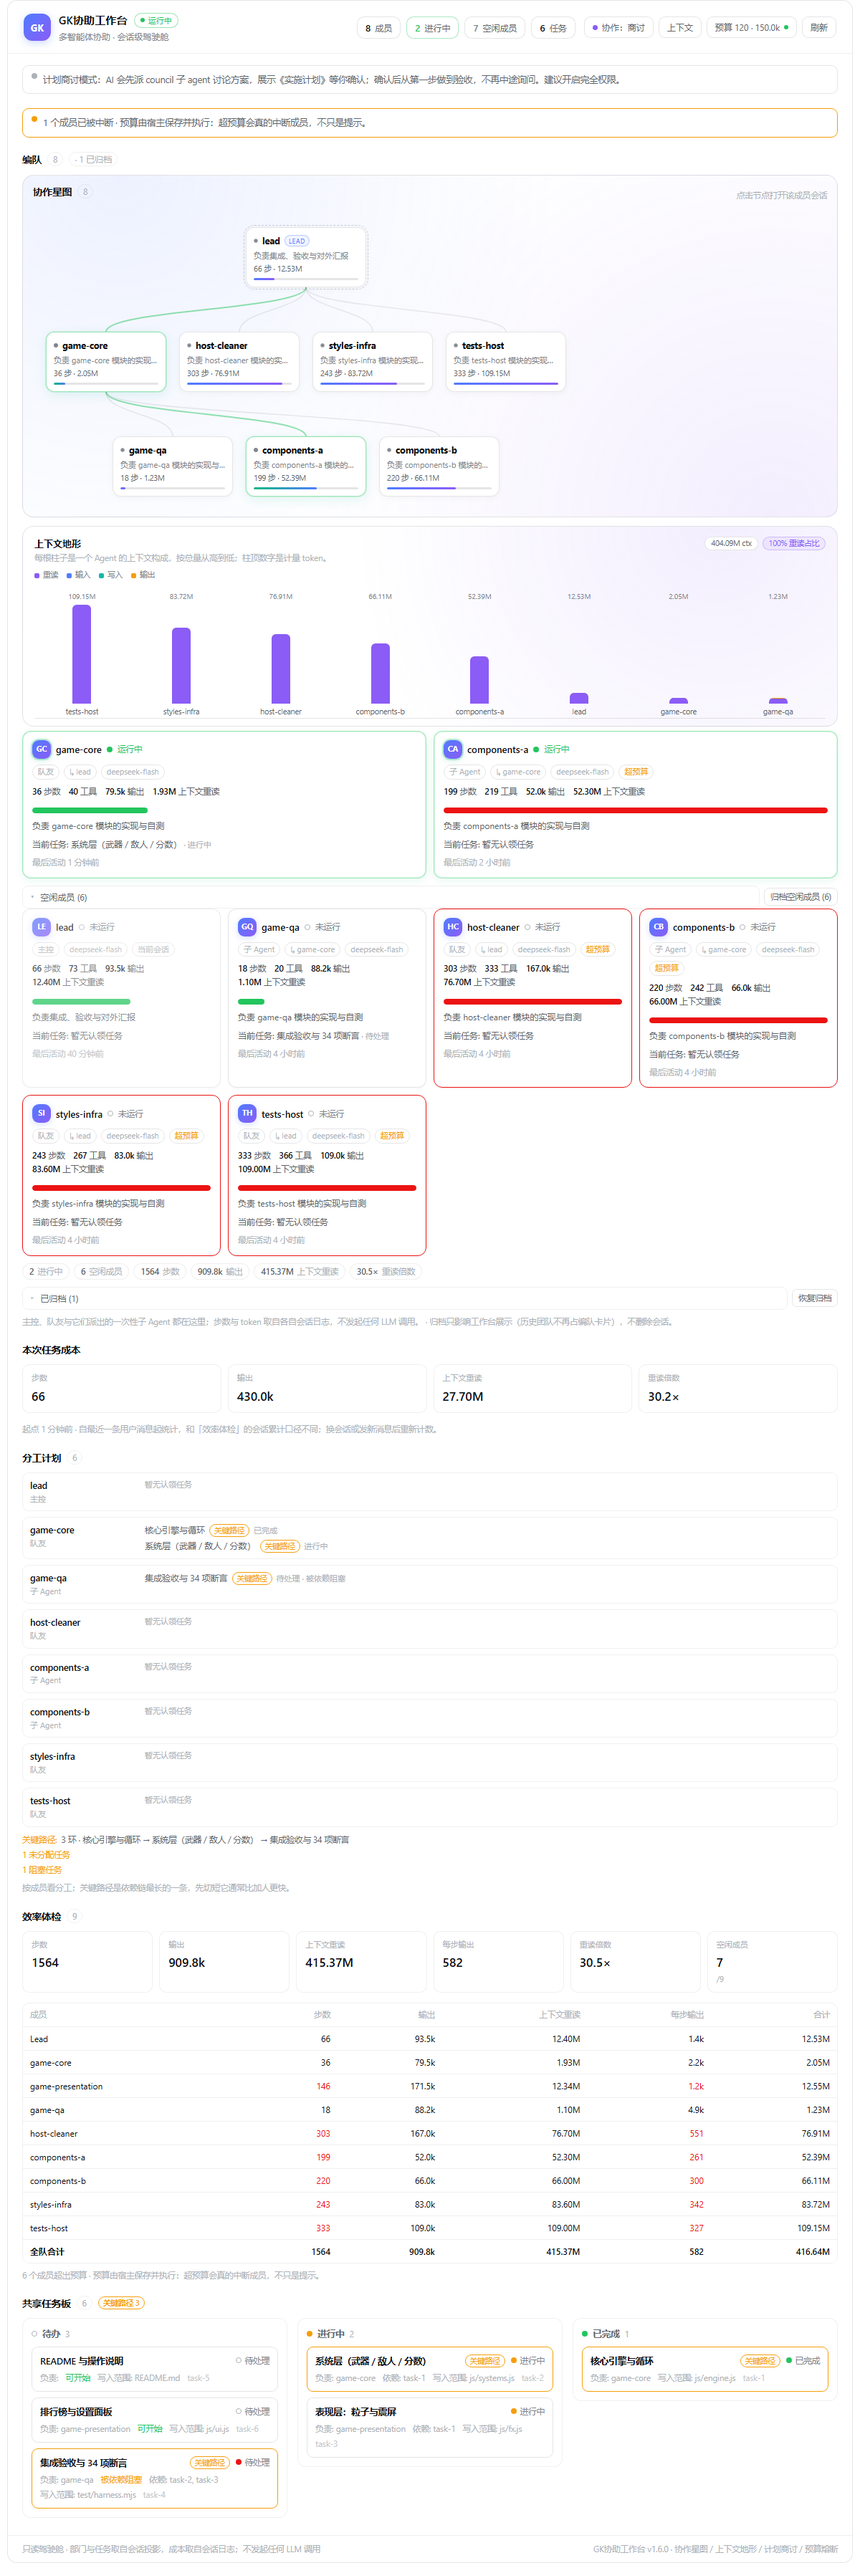
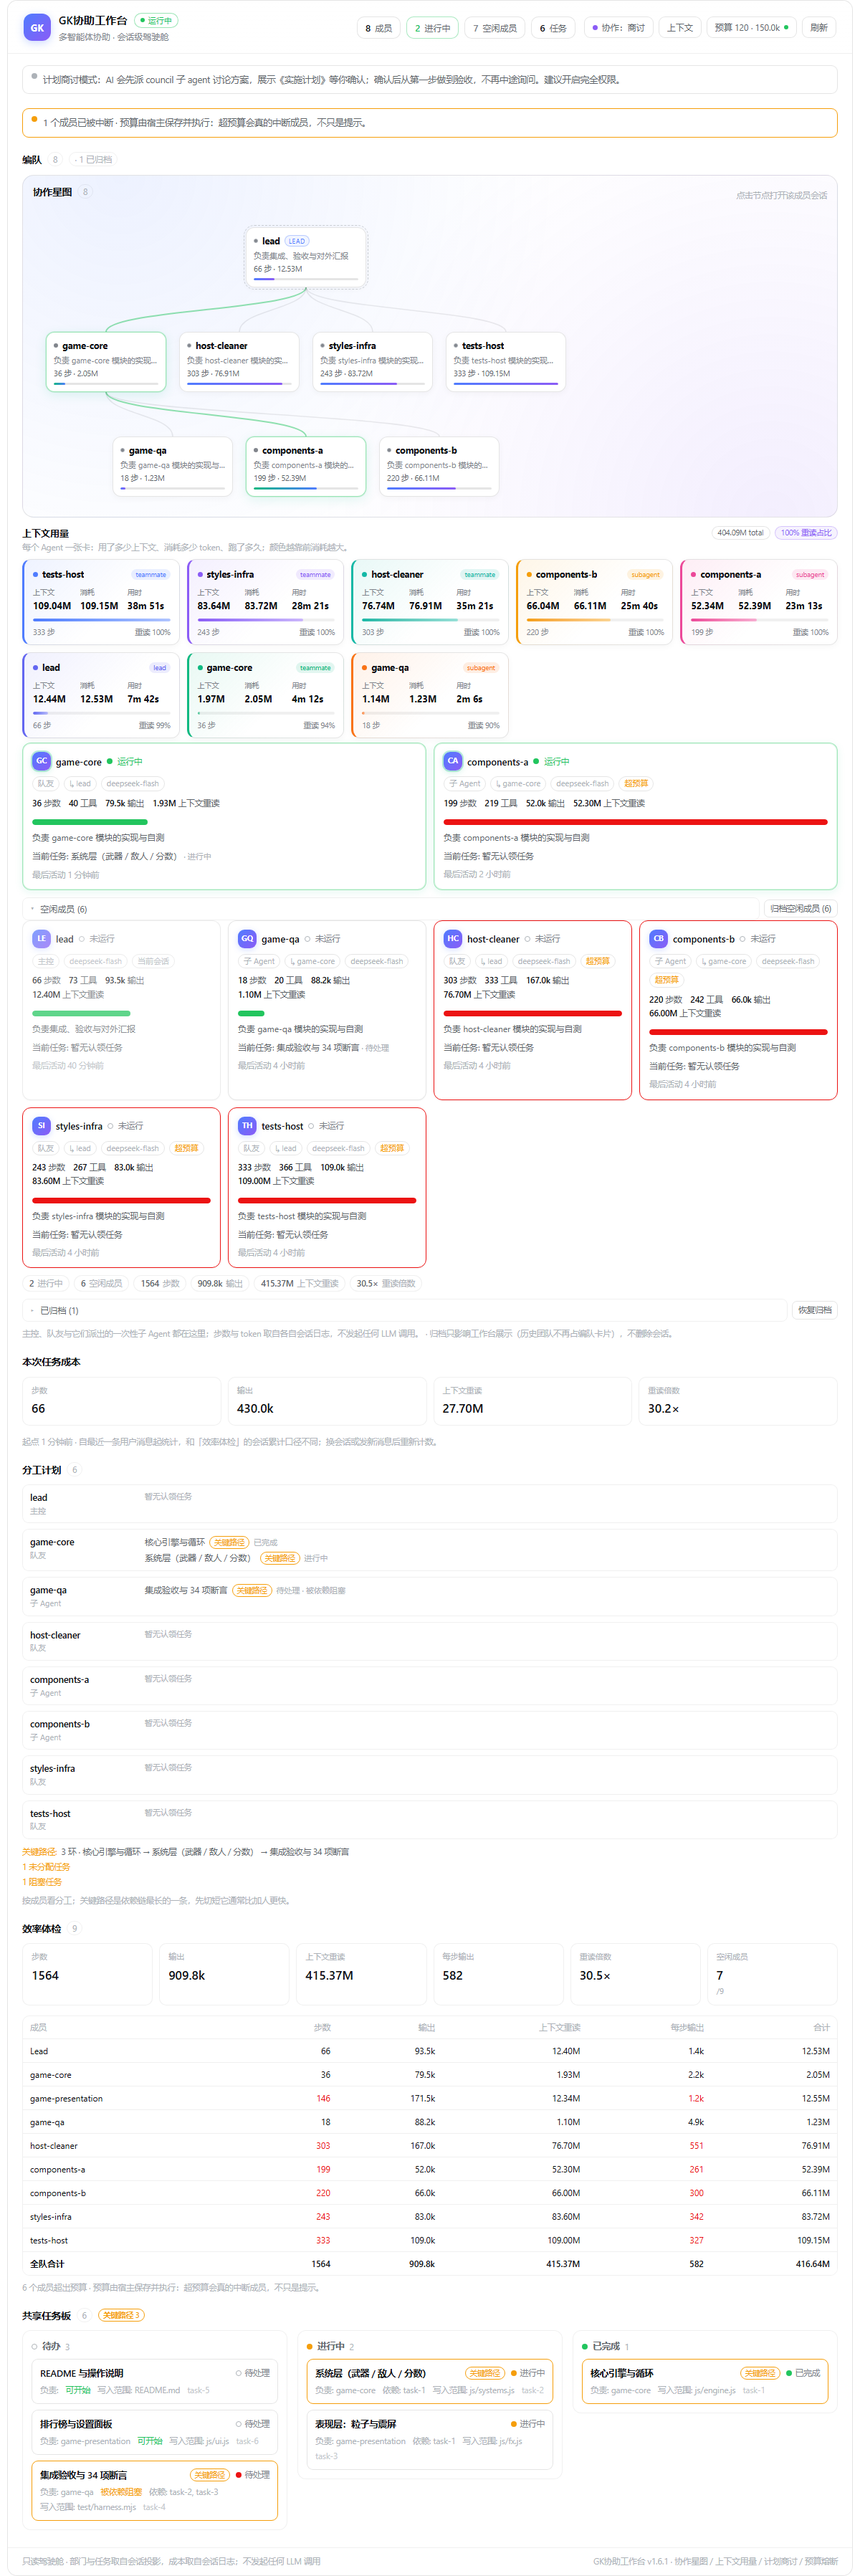
GK协助工作台 v1.6.1：上下文用量彩色卡片（上下文/消耗/用时）

diff --git a/packages/dsh-agent-cockpit/client.js b/packages/dsh-agent-cockpit/client.js
@@ -232,6 +232,25 @@ window.__ModuleLoader__.load({
 .acp_pulseOut{display:block;height:100%;background:linear-gradient(90deg,#4f7cff,#6d8dff)}
 .acp_pulseRead{display:block;height:100%;background:linear-gradient(90deg,#8b5cf6,#a78bfa)}
 .acp_pulseVal{text-align:right;font-size:10.5px;color:var(--dsw-alias-label-tertiary);font-variant-numeric:tabular-nums}
+.acp_ctxSection{margin:12px 0 6px}
+.acp_ctxHead{display:flex;align-items:flex-start;justify-content:space-between;gap:12px;flex-wrap:wrap;margin-bottom:8px}
+.acp_ctxTitle{font-size:13px;font-weight:650}
+.acp_ctxBadges{display:flex;gap:6px;flex-wrap:wrap}
+.acp_ctxBadge{padding:1px 8px;border-radius:999px;font-size:10.5px;color:var(--dsw-alias-label-secondary);border:1px solid var(--dsw-alias-border-l2);background:var(--dsw-alias-bg-layer-2)}
+.acp_ctxBadgeRead{color:#8b5cf6;border-color:rgba(139,92,246,.30);background:rgba(139,92,246,.08)}
+.acp_ctxGrid{display:grid;grid-template-columns:repeat(auto-fill,minmax(200px,1fr));gap:10px}
+.acp_ctxCard{position:relative;display:flex;flex-direction:column;gap:8px;padding:11px 12px 9px;border:1px solid var(--dsw-alias-border-l2);border-left:3px solid var(--ctx-accent,#4f7cff);border-radius:12px;box-shadow:0 2px 10px rgba(0,0,0,.04);overflow:hidden}
+.acp_ctxCardHead{display:flex;align-items:center;gap:6px;min-width:0}
+.acp_ctxDot{flex:none;width:7px;height:7px;border-radius:999px;background:var(--ctx-accent,#4f7cff)}
+.acp_ctxName{min-width:0;overflow:hidden;text-overflow:ellipsis;white-space:nowrap;font-size:12.5px;font-weight:650}
+.acp_ctxRole{flex:none;margin-left:auto;padding:0 6px;border-radius:999px;font-size:9.5px;line-height:15px;color:var(--ctx-accent,#4f7cff);background:color-mix(in srgb,var(--ctx-accent,#4f7cff) 12%,transparent)}
+.acp_ctxMetrics{display:grid;grid-template-columns:repeat(3,minmax(0,1fr));gap:6px}
+.acp_ctxMetric{display:flex;flex-direction:column;gap:1px;min-width:0}
+.acp_ctxLabel{font-size:10px;color:var(--dsw-alias-label-tertiary)}
+.acp_ctxValue{font-size:13px;font-weight:650;font-variant-numeric:tabular-nums;overflow:hidden;text-overflow:ellipsis;white-space:nowrap}
+.acp_ctxBar{height:4px;border-radius:999px;background:var(--dsw-alias-border-l1);overflow:hidden}
+.acp_ctxBar i{display:block;height:100%;border-radius:999px;background:linear-gradient(90deg,var(--ctx-accent,#4f7cff),color-mix(in srgb,var(--ctx-accent,#4f7cff) 45%,#fff))}
+.acp_ctxFoot{display:flex;align-items:center;justify-content:space-between;gap:8px;font-size:10.5px;color:var(--dsw-alias-label-tertiary)}
 .acp_terrain{margin:12px 0 6px;padding:14px 16px 10px;border:1px solid var(--dsw-alias-border-l2);border-radius:16px;background:radial-gradient(circle at 85% 0%,rgba(139,92,246,.10),transparent 50%),var(--dsw-alias-bg-layer-1)}
 .acp_terrainHead{display:flex;align-items:flex-start;justify-content:space-between;gap:12px;flex-wrap:wrap}
 .acp_terrainTitle{font-size:13px;font-weight:650}
@@ -333,6 +352,12 @@ window.__ModuleLoader__.load({
       pulseTitle: '上下文脉搏',
       pulseHint: '只统计上下文重读与产出：紫色是重读，蓝色是输出；条越长越吃上下文。',
       pulsePressure: '重读占比',
+      ctxTitle: '上下文用量',
+      ctxHint: '每个 Agent 一张卡：用了多少上下文、消耗多少 token、跑了多久；颜色越靠前消耗越大。',
+      ctxUsed: '上下文',
+      ctxConsumed: '消耗',
+      ctxDuration: '用时',
+      ctxReread: '重读',
       terrainTitle: '上下文地形',
       terrainHint: '每根柱子是一个 Agent 的上下文构成，按总量从高到低；柱顶数字是计量 token。',
       terrainLegendRead: '重读',
@@ -435,7 +460,7 @@ window.__ModuleLoader__.load({
       archivedGroup: '已归档',
       restoreArchived: '恢复归档',
       archivedHint: '归档只影响工作台展示（历史团队不再占编队卡片），不删除会话。',
-      versionNote: 'GK协助工作台 v1.6.0 · 协作星图 / 上下文地形 / 计划商讨 / 预算熔断',
+      versionNote: 'GK协助工作台 v1.6.1 · 协作星图 / 上下文用量 / 计划商讨 / 预算熔断',
     };
 
     const en = {
@@ -521,6 +546,12 @@ window.__ModuleLoader__.load({
       pulseTitle: 'Context pulse',
       pulseHint: 'Cache reread vs output: purple is reread, blue is output. Longer bars burn more context.',
       pulsePressure: 'reread share',
+      ctxTitle: 'Context usage',
+      ctxHint: 'One card per agent: context used, tokens consumed, elapsed time. Hotter colors burn more.',
+      ctxUsed: 'context',
+      ctxConsumed: 'consumed',
+      ctxDuration: 'time',
+      ctxReread: 'reread',
       terrainTitle: 'Context terrain',
       terrainHint: 'One column per agent, sorted by total context tokens.',
       terrainLegendRead: 'reread',
@@ -623,7 +654,7 @@ window.__ModuleLoader__.load({
       archivedGroup: 'Archived',
       restoreArchived: 'Restore',
       archivedHint: 'Archiving only hides cards here (old teams stop occupying the fleet); sessions are not deleted.',
-      versionNote: 'GK Workbench v1.6.0 · collaboration map / context terrain / council preset',
+      versionNote: 'GK Workbench v1.6.1 · collaboration map / context usage / council preset',
     };
 
     /* ── small shared helpers ───────────────────────────────────────────── */
@@ -1133,6 +1164,89 @@ window.__ModuleLoader__.load({
       return s.slice(0, 2).toUpperCase();
     }
 
+    function fmtDuration(ms) {
+      if (typeof ms !== 'number' || !isFinite(ms) || ms <= 0) return '—';
+      const total = Math.round(ms / 1000);
+      if (total < 60) return total + 's';
+      const m = Math.floor(total / 60);
+      const s = total % 60;
+      if (m < 60) return String(m) + 'm' + (s > 0 ? ' ' + s + 's' : '');
+      const h = Math.floor(m / 60);
+      return String(h) + 'h ' + String(m % 60) + 'm';
+    }
+
+    const CONTEXT_PALETTE = ['#4f7cff', '#8b5cf6', '#14b8a6', '#f59e0b', '#ec4899', '#6366f1', '#10b981', '#f97316'];
+
+    function ContextCards(props) {
+      const t = props.t;
+      const rows = Array.isArray(props.rows) ? props.rows : [];
+      if (rows.length === 0) return null;
+      const list = rows.map((row) => {
+        const u = row.usage || {};
+        const input = Number(u.input) || 0;
+        const read = Number(u.cacheRead) || 0;
+        const write = Number(u.cacheWrite) || 0;
+        const output = Number(u.output) || 0;
+        const context = input + read + write;
+        const total = context + output;
+        return { row, input, read, write, output, context, total };
+      }).sort((a, b) => b.total - a.total);
+      const sumTotal = list.reduce((s, x) => s + x.total, 0);
+      const sumRead = list.reduce((s, x) => s + x.read, 0);
+      const pressure = sumTotal > 0 ? Math.round((sumRead / sumTotal) * 100) : 0;
+      const maxTotal = Math.max(1, ...list.map((x) => x.total));
+      const cards = list.map((x, index) => {
+        const accent = CONTEXT_PALETTE[index % CONTEXT_PALETTE.length];
+        const share = Math.max(2, Math.round((x.total / maxTotal) * 100));
+        return h('article', {
+          className: 'acp_ctxCard',
+          key: String(x.row.id),
+          style: {
+            '--ctx-accent': accent,
+            background: 'linear-gradient(135deg, ' + accent + '18, transparent 58%), var(--dsw-alias-bg-layer-1)',
+          },
+        }, [
+          h('div', { className: 'acp_ctxCardHead', key: 'head' }, [
+            h('span', { className: 'acp_ctxDot', key: 'dot' }),
+            h('span', { className: 'acp_ctxName', key: 'name', title: String(x.row.name) }, String(x.row.name)),
+            h('span', { className: 'acp_ctxRole', key: 'role' }, String(x.row.role || 'agent')),
+          ]),
+          h('div', { className: 'acp_ctxMetrics', key: 'metrics' }, [
+            h('div', { className: 'acp_ctxMetric', key: 'ctx' }, [
+              h('span', { className: 'acp_ctxLabel', key: 'l' }, t('ctxUsed')),
+              h('b', { className: 'acp_ctxValue', key: 'v' }, fmtTokens(x.context)),
+            ]),
+            h('div', { className: 'acp_ctxMetric', key: 'total' }, [
+              h('span', { className: 'acp_ctxLabel', key: 'l' }, t('ctxConsumed')),
+              h('b', { className: 'acp_ctxValue', key: 'v' }, fmtTokens(x.total)),
+            ]),
+            h('div', { className: 'acp_ctxMetric', key: 'time' }, [
+              h('span', { className: 'acp_ctxLabel', key: 'l' }, t('ctxDuration')),
+              h('b', { className: 'acp_ctxValue', key: 'v' }, fmtDuration(x.row.duration)),
+            ]),
+          ]),
+          h('div', { className: 'acp_ctxBar', key: 'bar' }, h('i', { style: { width: share + '%' } })),
+          h('div', { className: 'acp_ctxFoot', key: 'foot' }, [
+            h('span', { key: 'steps' }, String(Number((x.row.usage || {}).steps) || 0) + ' 步'),
+            h('span', { key: 'read' }, t('ctxReread') + ' ' + (x.total > 0 ? Math.round((x.read / x.total) * 100) : 0) + '%'),
+          ]),
+        ]);
+      });
+      return h('div', { className: 'acp_ctxSection', key: 'context-cards', id: 'acp-context-cards' }, [
+        h('div', { className: 'acp_ctxHead', key: 'head' }, [
+          h('div', { key: 'left' }, [
+            h('div', { className: 'acp_ctxTitle', key: 'title' }, t('ctxTitle')),
+            h('p', { className: 'acp_hint', key: 'hint', style: { margin: '2px 0 0' } }, t('ctxHint')),
+          ]),
+          h('div', { className: 'acp_ctxBadges', key: 'badges' }, [
+            h('span', { className: 'acp_ctxBadge', key: 'total' }, fmtTokens(sumTotal) + ' total'),
+            h('span', { className: 'acp_ctxBadge acp_ctxBadgeRead', key: 'read' }, String(pressure) + '% ' + t('pulsePressure')),
+          ]),
+        ]),
+        h('div', { className: 'acp_ctxGrid', key: 'grid' }, cards),
+      ]);
+    }
+
     function AgentGraph(props) {
       const t = props.t;
       const rows = Array.isArray(props.rows) ? props.rows : [];
@@ -1318,7 +1432,7 @@ window.__ModuleLoader__.load({
           sessionId: props.sessionId,
           openMember: props.openMember,
         }));
-        body.push(h(ContextTerrain, { key: 'terrain', rows: visibleRows, t }));
+        body.push(h(ContextCards, { key: 'context-cards', rows: visibleRows, t }));
         if (active.length > 0) {
           body.push(h('div', { className: 'acp_grid', key: 'active' }, active.map(card)));
         }
@@ -2309,7 +2423,7 @@ window.__ModuleLoader__.load({
           title: t('contextTitle'),
           onClick: () => {
             if (typeof document !== 'undefined' && document.getElementById) {
-              const node = document.getElementById('acp-context-terrain');
+              const node = document.getElementById('acp-context-cards');
               if (node && typeof node.scrollIntoView === 'function') node.scrollIntoView({ behavior: 'smooth', block: 'start' });
             }
           },

diff --git a/packages/dsh-agent-cockpit/host/usage.js b/packages/dsh-agent-cockpit/host/usage.js
@@ -55,6 +55,57 @@ function addUsage(acc, usage) {
   acc.reasoning += pick(usage.reasoningTokens);
 }
 
+function timingFromEvents(events) {
+  let firstAt;
+  let lastAt;
+  for (const event of events || []) {
+    if (!event || typeof event.time !== 'number') continue;
+    if (firstAt === undefined || event.time < firstAt) firstAt = event.time;
+    if (lastAt === undefined || event.time > lastAt) lastAt = event.time;
+  }
+  return { firstAt, lastAt };
+}
+
+function timingFromLogText(text) {
+  let firstAt;
+  let lastAt;
+  for (const line of String(text).split('\n')) {
+    if (!line) continue;
+    let event;
+    try {
+      event = JSON.parse(line);
+    } catch {
+      continue;
+    }
+    if (!event || typeof event.time !== 'number') continue;
+    if (firstAt === undefined || event.time < firstAt) firstAt = event.time;
+    if (lastAt === undefined || event.time > lastAt) lastAt = event.time;
+  }
+  return { firstAt, lastAt };
+}
+
+function durationFallback(createdAt, mtime, birthtime) {
+  if (typeof mtime !== 'number') return undefined;
+  let start = NaN;
+  if (typeof createdAt === 'number') start = createdAt;
+  else if (typeof createdAt === 'string') start = Date.parse(createdAt);
+  if (!isFinite(start) && typeof birthtime === 'number') start = birthtime;
+  if (!isFinite(start)) return undefined;
+  const delta = mtime - start;
+  return delta > 0 ? delta : undefined;
+}
+
+function withTiming(result, timing) {
+  const firstAt = timing && typeof timing.firstAt === 'number' ? timing.firstAt : undefined;
+  const lastAt = timing && typeof timing.lastAt === 'number' ? timing.lastAt : undefined;
+  return {
+    ...result,
+    firstAt,
+    lastAt,
+    duration: firstAt !== undefined && lastAt !== undefined ? Math.max(0, lastAt - firstAt) : undefined,
+  };
+}
+
 export function emptyUsage() {
   return { ...EMPTY };
 }
@@ -173,7 +224,7 @@ export function sessionUsage(sessionId, liveSession) {
       const events = liveSession.ownEvents();
       const usage = usageFromEvents(events);
       const header = liveSession.header || {};
-      return {
+      const timed = withTiming({
         usage,
         source: 'live',
         live: true,
@@ -182,7 +233,9 @@ export function sessionUsage(sessionId, liveSession) {
         title: header.title,
         createdAt: header.createdAt,
         mtime,
-      };
+      }, timingFromEvents(events));
+      if (timed.duration === undefined) timed.duration = durationFallback(header.createdAt, mtime, stat ? stat.birthtimeMs : undefined);
+      return timed;
     } catch {
       /* 回落磁盘 */
     }
@@ -200,14 +253,15 @@ export function sessionUsage(sessionId, liveSession) {
   } catch {
     return { usage: emptyUsage(), source: 'error', live: false, mtime };
   }
-  const value = {
+  const value = withTiming({
     usage: usageFromLogText(text),
     source: 'disk',
     live: false,
     model: lastModelFromText(text),
     createdAt: createdAtFromText(text),
     mtime,
-  };
+  }, timingFromLogText(text));
+  if (value.duration === undefined) value.duration = durationFallback(value.createdAt, mtime, stat ? stat.birthtimeMs : undefined);
   diskCache.set(sessionId, { key, value });
   return value;
 }

diff --git a/packages/dsh-agent-cockpit/host/family.js b/packages/dsh-agent-cockpit/host/family.js
@@ -51,6 +51,9 @@ function usageOf(sessions, id) {
   return {
     usage: usage || { steps: 0, tools: 0, input: 0, output: 0, cacheRead: 0, cacheWrite: 0, reasoning: 0, errors: 0 },
     mtime: result && typeof result.mtime === 'number' ? result.mtime : undefined,
+    duration: result && typeof result.duration === 'number' ? result.duration : undefined,
+    firstAt: result && typeof result.firstAt === 'number' ? result.firstAt : undefined,
+    lastAt: result && typeof result.lastAt === 'number' ? result.lastAt : undefined,
     source: result && result.source ? result.source : undefined,
   };
 }
@@ -99,6 +102,9 @@ export async function collectFamily(scope, leadId, currentId) {
       current: id === currentId,
       usage: measured.usage,
       mtime: measured.mtime,
+      duration: measured.duration,
+      firstAt: measured.firstAt,
+      lastAt: measured.lastAt,
       usageSource: measured.source,
     });
   }
@@ -134,6 +140,9 @@ export async function collectFamily(scope, leadId, currentId) {
       current: id === currentId,
       usage: measured.usage,
       mtime: measured.mtime,
+      duration: measured.duration,
+      firstAt: measured.firstAt,
+      lastAt: measured.lastAt,
       usageSource: measured.source,
     });
   };

diff --git a/packages/dsh-agent-cockpit/host/coordination.js b/packages/dsh-agent-cockpit/host/coordination.js
@@ -332,7 +332,7 @@ export function createCoordinator(ctx) {
     },
     debugInfo() {
       return {
-        version: '1.6.0',
+        version: '1.6.1',
         started,
         guardInstalled,
         promptInstalled,

diff --git a/packages/dsh-agent-cockpit/CHANGELOG.md b/packages/dsh-agent-cockpit/CHANGELOG.md
@@ -1,5 +1,10 @@
 # Changelog
 
+## 1.6.1 (2026-11-05)
+
+- 上下文用量改为彩色卡片：上下文 token / 消耗 / 用时，按消耗排序。
+- usage/family 增加 duration，用于每张卡的用时。
+
 ## 1.6.0 (2026-11-05)
 
 - 拆掉内置 dsh-context 引擎与「上下文」标签页。
